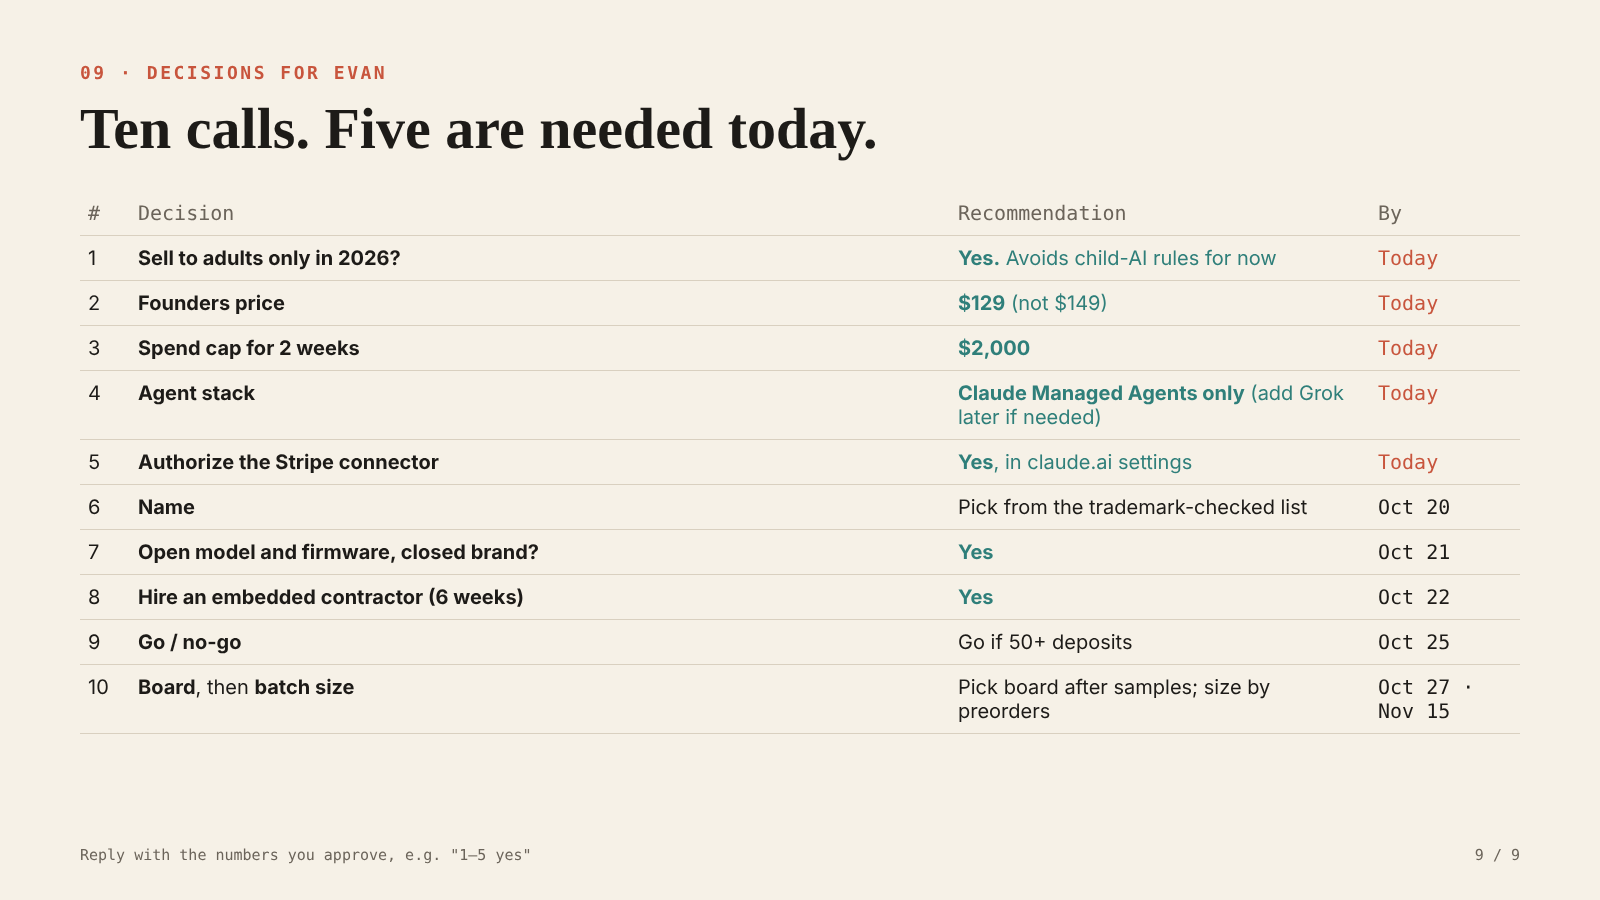
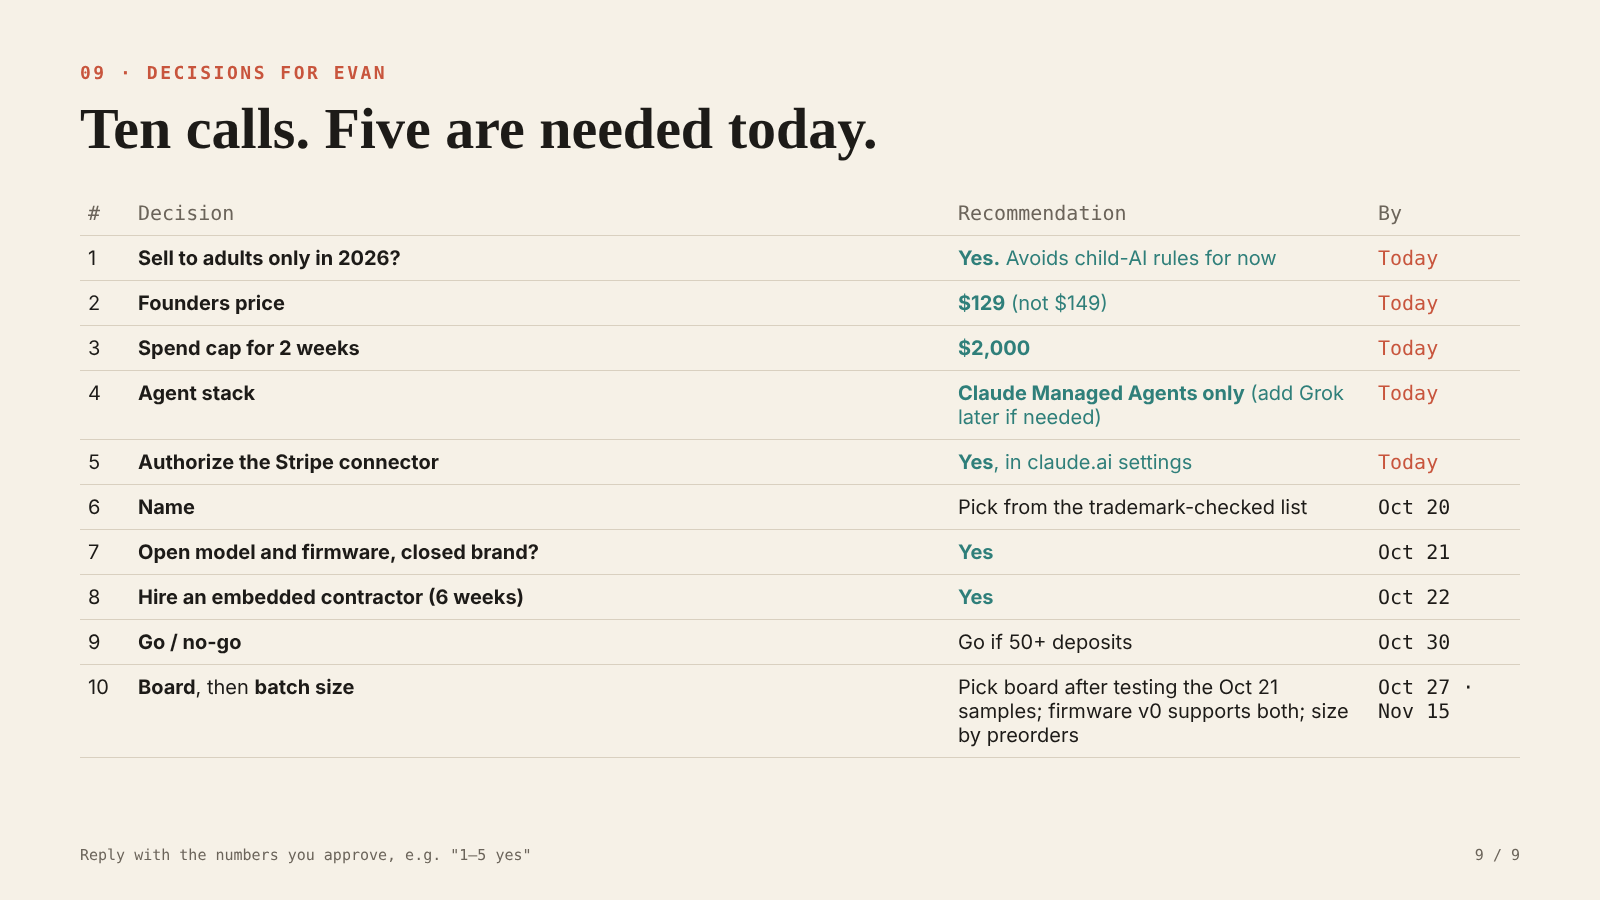
Fourth Codex review: bands stated as distinct from NostalDamus; rank marked as a screenshot; one board date; deposits before preorders
- ZEITGEIST-MASTER-PROMPT.md: the Zeitgeist bands (GO 70+ / WATCH 50-69 /
  PASS <50) are this report's own; NostalDamus's scoreBand uses 78 / 65 with
  Hold. Compare scores, never labels.
- First report header and assets.md: the #2 rank is the owner's screenshot,
  not confirmed on the live page, as the report's own Unread sources say.
- Christmas plan: "open preorders this week" now says waitlist and $25
  deposit on Oct 24, full preorders Nov 9 (as the schedule says). The board
  is chosen Oct 27 after the Oct 21 samples are tested; firmware v0 takes
  either input; shell CAD waits.
- Slides: decision table go/no-go Oct 30; board row and product footer say
  Oct 27; 02 and 09 re-rendered (the other seven render byte-identical).

Claude-Session: https://claude.ai/code/session_01WCwHec3RfYx2cWkF2WjMXJ

Changed region(s): [[0.5938, 0.7467, 0.8438, 0.84]]

diff --git a/docs/plans/companion-egg-images/slides.html b/docs/plans/companion-egg-images/slides.html
@@ -83,7 +83,7 @@ td{padding:10px 8px;border-bottom:1px solid var(--line);font-size:20px;vertical-
       </table>
     </div>
   </div>
-  <div class="foot"><span>Concept only · ring or buttons, decided by the Oct 21 board choice; never an egg with three buttons (avoids Bandai trade dress)</span><span>2 / 9</span></div>
+  <div class="foot"><span>Concept only · ring or buttons, decided by the Oct 27 board choice; never an egg with three buttons (avoids Bandai trade dress)</span><span>2 / 9</span></div>
 </section>
 
 <!-- 3 -->
@@ -223,8 +223,8 @@ td{padding:10px 8px;border-bottom:1px solid var(--line);font-size:20px;vertical-
     <tr><td>6</td><td><b>Name</b></td><td>Pick from the trademark-checked list</td><td class="mono">Oct 20</td></tr>
     <tr><td>7</td><td><b>Open model and firmware, closed brand?</b></td><td style="color:var(--teal)"><b>Yes</b></td><td class="mono">Oct 21</td></tr>
     <tr><td>8</td><td><b>Hire an embedded contractor (6 weeks)</b></td><td style="color:var(--teal)"><b>Yes</b></td><td class="mono">Oct 22</td></tr>
-    <tr><td>9</td><td><b>Go / no-go</b></td><td>Go if 50+ deposits</td><td class="mono">Oct 25</td></tr>
-    <tr><td>10</td><td><b>Board</b>, then <b>batch size</b></td><td>Pick board after samples; size by preorders</td><td class="mono">Oct 27 · Nov 15</td></tr>
+    <tr><td>9</td><td><b>Go / no-go</b></td><td>Go if 50+ deposits</td><td class="mono">Oct 30</td></tr>
+    <tr><td>10</td><td><b>Board</b>, then <b>batch size</b></td><td>Pick board after testing the Oct 21 samples; firmware v0 supports both; size by preorders</td><td class="mono">Oct 27 · Nov 15</td></tr>
   </table>
   <div class="foot"><span>Reply with the numbers you approve, e.g. "1–5 yes"</span><span>9 / 9</span></div>
 </section>

diff --git a/docs/zeitgeist/reports/2026-10-19.html b/docs/zeitgeist/reports/2026-10-19.html
@@ -65,7 +65,7 @@ footer{border-top:1px solid var(--rule);padding-top:20px;font-size:.85rem;color:
 <header>
   <span class="eyebrow">Zeitgeist Report · Run 1 · 19 October 2026</span>
   <h1>Zeitgeist Report No. 1</h1>
-  <p class="meta">For Evan Ratner. Base asset: <em>Sneaky Good at Mah Jongg</em> (GameMaster Scorebooks), #2 on a Kindle games Best Sellers list. 16 trends scored. 4 research agents, about 190 web reads.</p>
+  <p class="meta">For Evan Ratner. Base asset: <em>Sneaky Good at Mah Jongg</em> (GameMaster Scorebooks); the owner's screenshot showed it #2 on a Kindle games Best Sellers list (not confirmed on the live page in this run; see Unread sources). 16 trends scored. 4 research agents, about 190 web reads.</p>
 </header>
 
 <section class="topline col" aria-labelledby="tl">

diff --git a/docs/plans/companion-egg-christmas-2026.md b/docs/plans/companion-egg-christmas-2026.md
@@ -8,7 +8,7 @@ Written 2026-10-19. Christmas is 67 days away. Thanksgiving is 2026-11-26.
 1. Ship a limited **Founders Edition** of 300 units for Christmas. Do not try for retail shelves in 2026.
 2. Sell it to **adults** (the 1997 Tamagotchi kids, now 35 to 45). Do not sell to children this year.
 3. Run a **tiny language model on the device**. Use no microphone, no camera, no cloud, and no account.
-4. Open preorders this week. Let preorder volume decide the batch size.
+4. Open a waitlist and a refundable $25 deposit this week (Oct 24). Full $129 preorders open on Nov 9, after the prototype gates. Let preorder volume decide the batch size.
 5. Sell a **gift box with a hatch certificate** as the hedge. If units slip, the gift still arrives by 2026-12-24.
 
 The pitch in one line: *"The 1997 virtual pet, grown up. It thinks for itself, and it never talks to the internet."*
@@ -47,7 +47,7 @@ The model says WATCH, not GO. Speed and margin pull it down. This plan raises bo
 
 ### 3.1 What it is
 
-A palm-size device with a round color screen and simple controls: three buttons on a bare round-screen board, or the rotary ring on the M5Stack Dial. The board decision on 2026-10-21 picks one, and the shell CAD and firmware v0 wait for that decision. A small pet lives on it. The pet eats, sleeps, grows, and gets bored, as in 1997. The new part: the pet **writes its own short thoughts** with a language model that runs on the chip.
+A palm-size device with a round color screen and simple controls: three buttons on a bare round-screen board, or the rotary ring on the M5Stack Dial. The board is chosen on Tue Oct 27, after the samples ordered on Oct 21 are tested; firmware v0 is written against an input layer that takes either, and the shell CAD waits for Oct 27. A small pet lives on it. The pet eats, sleeps, grows, and gets bored, as in 1997. The new part: the pet **writes its own short thoughts** with a language model that runs on the chip.
 
 Examples of pet output: "I dreamed the moon was a cracker." "You were gone a long time. I counted clouds."
 
@@ -71,7 +71,7 @@ Stickerbox (an AI sticker printer for kids) shows the shape: a screen-free AI ob
 
 ### 3.4 Hardware (no custom board in 2026)
 
-Use an off-the-shelf **ESP32-S3** board with a round display, battery charging, and a motion sensor. Waveshare and similar makers sell these boards near $20 to $30 retail. Pick the exact board after a stock check on 2026-10-21.
+Use an off-the-shelf **ESP32-S3** board with a round display, battery charging, and a motion sensor. Waveshare and similar makers sell these boards near $20 to $30 retail. Order samples after a stock check on 2026-10-21, and pick the board on 2026-10-27 after testing them.
 
 | Part | Est. unit cost at 300 units |
 |---|---|
@@ -228,7 +228,7 @@ Each step has an owner. "Claude" means a Claude session can do the step. "Evan" 
 
 ### Thursday Oct 22
 10. Claude: train model v0 (5M parameters). Export it in the format the ESP32 runtime needs.
-11. Claude: write firmware v0: pet loop, sprites, buttons, sleep mode, model call.
+11. Claude: write firmware v0: pet loop, sprites, an input layer for buttons or the ring (the board is chosen Oct 27), sleep mode, model call.
 12. Evan: set up Stripe. Create the $25 refundable deposit product.
 
 ### Friday Oct 23

diff --git a/docs/ZEITGEIST-MASTER-PROMPT.md b/docs/ZEITGEIST-MASTER-PROMPT.md
@@ -101,7 +101,11 @@ total.
 | Defensibility | 10% | Do we own something others cannot copy fast (brand, list, data, rights)? |
 
 Call a trend a **GO** at 70+, **WATCH** at 50-69, **PASS** below 50.
-Use the same bands as NostalDamus so the two systems read the same way.
+These bands are this report's own. They are not NostalDamus's: the app's
+`scoreBand` (src/components/brand.tsx) uses Go 78+, Watch 65-77 and Hold
+below 65, so the same number can read differently in the two systems. Never
+copy a Zeitgeist band into NostalDamus or the reverse; compare scores, not
+labels.
 
 ## 6. Revenue ladder (what to build around a trend)
 

diff --git a/agent-seed/zeitgeist/preferences/assets.md b/agent-seed/zeitgeist/preferences/assets.md
@@ -2,7 +2,8 @@
 
 - Mahjong book: "Sneaky Good at Mah Jongg: Win Your First Time and Every
   Time" (GameMaster Scorebooks series) by Evan Ratner. Rank #2 on an Amazon
-  Kindle games Best Sellers list, October 2026. Kindle ASIN B0GQHKVHYS, paperback
+  Kindle games Best Sellers list, from the owner's October 2026 screenshot (not a
+  live reading; never state it as current unless read on the page that run). Kindle ASIN B0GQHKVHYS, paperback
   ASIN B0GQS7Y8PL. Formats: Kindle (Kindle Unlimited) and paperback.
   Series also has Canasta, Farkle, Yahtzee, Bunco, and American Mah Jongg
   Master Edition Pro titles.
